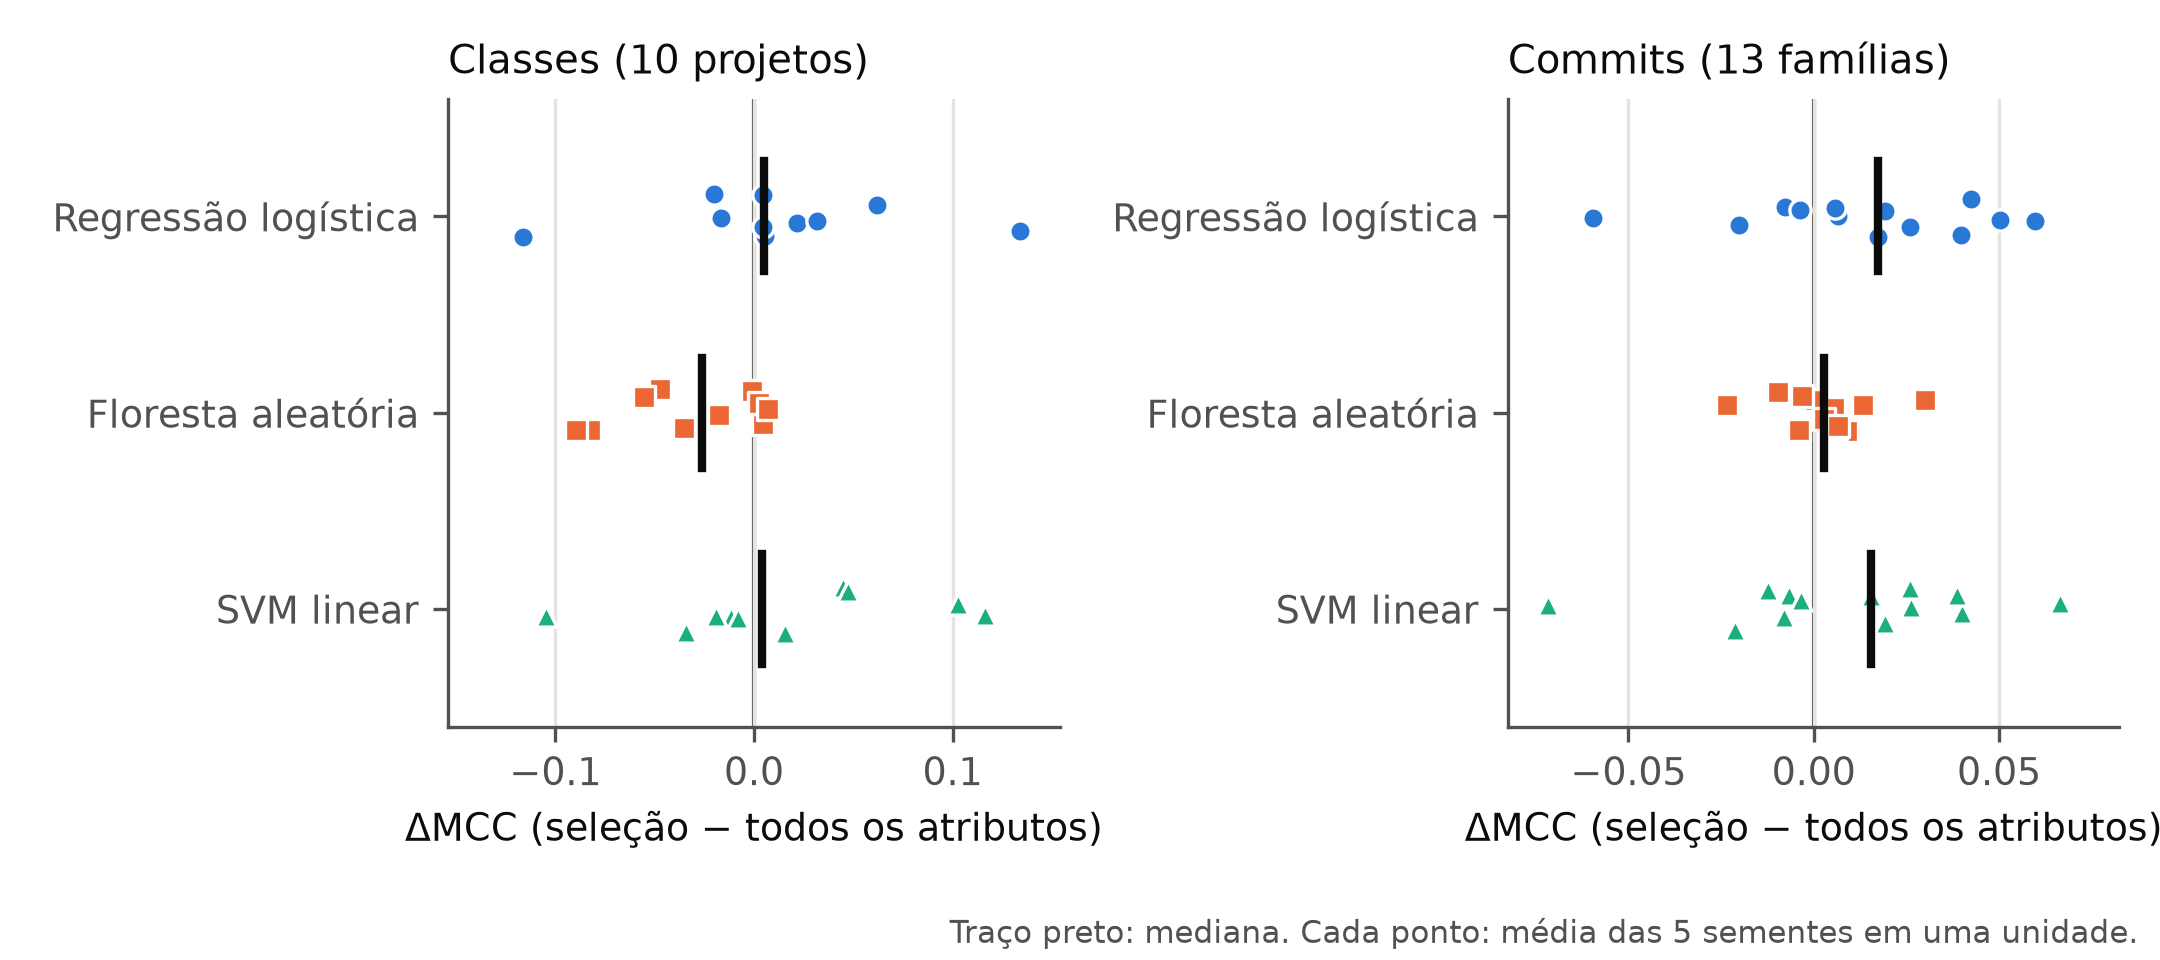
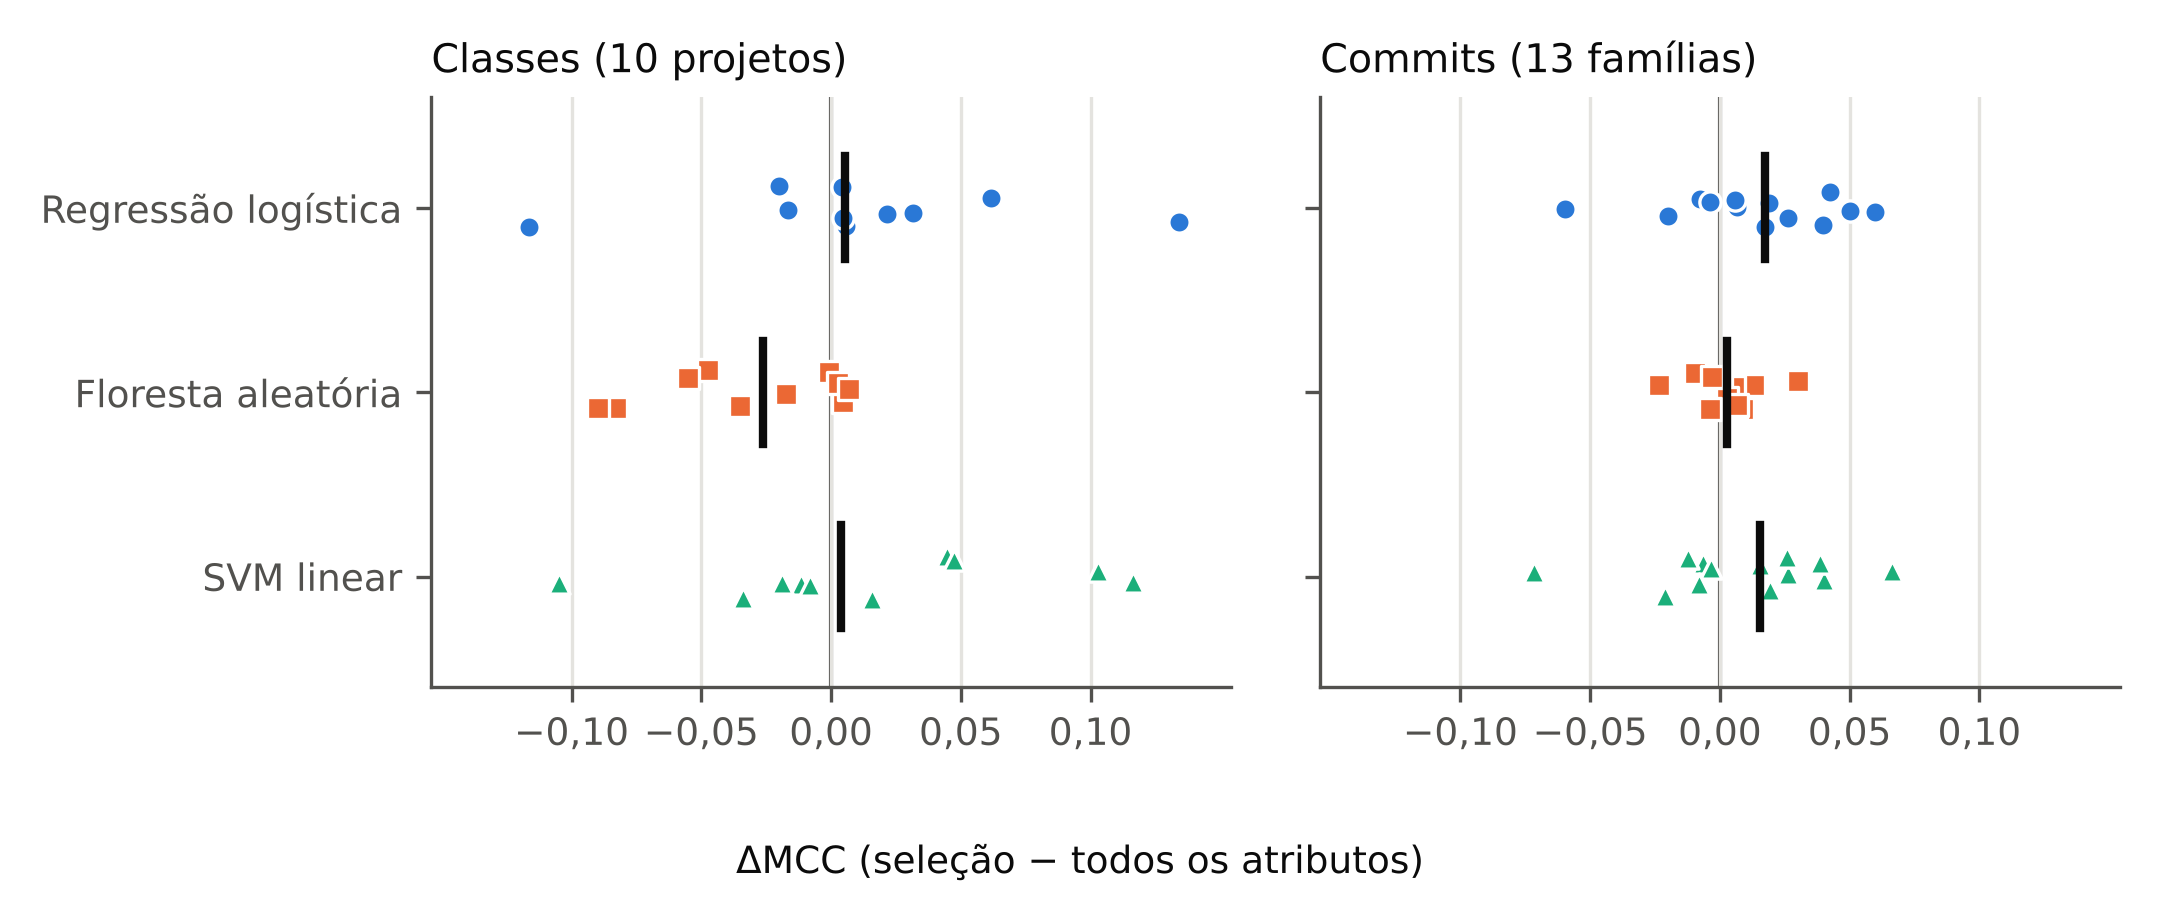
Adiciona análises a posteriori e Figura 2 com escala comum
- analyze_posthoc.py: trajetórias e paradas por orçamento, origem da máscara
  escolhida, ganho interno, Wilcoxon bilateral e commits sem apache/hadoop,
  calculados apenas dos registros gravados
- results/analysis/posthoc_*.csv: saídas dessas análises
- figures.py: Figura 2 com a mesma escala nos dois painéis
- README: documenta o novo script

diff --git a/analyze_posthoc.py b/analyze_posthoc.py
@@ -1,0 +1,120 @@
+"""Análises a posteriori (seção 3.8 do artigo).
+
+Não fazem parte do protocolo congelado antes da execução definitiva. Usam apenas os registros e as
+previsões já gravados em results/ (nenhum modelo é reajustado):
+
+1. Trajetórias: motivo de término, passos e tamanho final, por cenário, modelo e inicialização.
+2. Origem da máscara escolhida (inicialização completa ou aleatória) e distância ao ponto de partida.
+3. Ganho de MCC nas validações internas (máscara escolhida − conjunto completo): mínimo e média.
+4. Wilcoxon bilateral exploratório sobre as diferenças por unidade (complemento do teste unilateral da QP2).
+5. Teste de commits sem o identificador apache/hadoop (sem positivos na base): MCC, F1, precisão e
+   sensibilidade a partir das matrizes de confusão por identificador; AUC-ROC a partir das previsões,
+   se os dados estiverem em data/ (python download_data.py).
+
+Uso: python analyze_posthoc.py [results] [data]
+Saída: results/analysis/posthoc_*.csv
+"""
+import json, sys
+from pathlib import Path
+import numpy as np
+import pandas as pd
+from scipy.stats import wilcoxon
+
+ROOT = Path(__file__).resolve().parent
+RES = Path(sys.argv[1]) if len(sys.argv) > 1 else ROOT / 'results'
+DATA = Path(sys.argv[2]) if len(sys.argv) > 2 else ROOT / 'data'
+OUT = RES / 'analysis'; OUT.mkdir(parents=True, exist_ok=True)
+MODELS = ['LR', 'RF', 'SVM']; SCEN = ['classes', 'commits']
+INIT = {0: 'completa', 1: 'aleatoria_1', 2: 'aleatoria_2'}
+HADOOP = 'hadoop'   # identificador apache/hadoop, como gravado em by_group['project_id']
+
+
+def hamming(a, b):
+    return sum(x != y for x, y in zip(a, b))
+
+
+def mcc_from_counts(tp, fp, tn, fn):
+    den = np.sqrt(float(tp + fp) * (tp + fn) * (tn + fp) * (tn + fn))
+    return (tp * tn - fp * fn) / den if den > 0 else 0.0
+
+
+tasks = [json.loads(f.read_text()) for f in sorted((RES / 'tasks').glob('*.json'))]
+
+# 1. Trajetórias ---------------------------------------------------------------------------------
+traj = pd.DataFrame([dict(scenario=r['scenario'], model=r['model'], init=INIT[t['trajectory']],
+                          stop=t['stop'], steps=t['steps'], n_start=t['start'].count('1'),
+                          n_end=t['end'].count('1'))
+                     for r in tasks for t in r['trajectories']])
+t1 = traj.groupby(['scenario', 'model', 'init']).agg(
+    trajetorias=('stop', 'size'), encerradas_orcamento=('stop', lambda x: int((x == 'budget').sum())),
+    otimo_local=('stop', lambda x: int((x == 'local_optimum').sum())),
+    passos_media=('steps', 'mean'), passos_max=('steps', 'max'),
+    atributos_inicio=('n_start', 'mean'), atributos_fim=('n_end', 'mean'), atributos_fim_min=('n_end', 'min')
+).round(2).reset_index()
+t1.to_csv(OUT / 'posthoc_trajectories.csv', index=False)
+
+# 2. Origem da máscara escolhida -----------------------------------------------------------------
+rows = []
+for r in tasks:
+    best = r['selected_mask']
+    origin = next(t['trajectory'] for t in r['trace'] if t['mask'] == best)   # 1ª trajetória que a avaliou
+    start = r['trajectories'][origin]['start']
+    rows.append(dict(scenario=r['scenario'], fold=r['fold'], model=r['model'], seed=r['seed'],
+                     origin=INIT[origin], n_selected=best.count('1'), n_start=start.count('1'),
+                     hamming_start=hamming(best, start),
+                     start_1=r['trajectories'][1]['start'], start_2=r['trajectories'][2]['start'],
+                     gain_validation=r['validation_mcc_selected'] - r['validation_mcc_full']))
+sel = pd.DataFrame(rows)
+t2 = sel.assign(completa=sel.origin.eq('completa'), aleatoria=~sel.origin.eq('completa')).groupby(
+    ['scenario', 'model']).agg(buscas=('seed', 'size'), origem_completa=('completa', 'sum'),
+                               origem_aleatoria=('aleatoria', 'sum'), selecionados_media=('n_selected', 'mean'),
+                               inicio_media=('n_start', 'mean'), distancia_media=('hamming_start', 'mean'),
+                               distancia_max=('hamming_start', 'max')).round(2).reset_index()
+t2.to_csv(OUT / 'posthoc_mask_origin.csv', index=False)
+distinct = {s: len(set(sel[sel.scenario == s].start_1) | set(sel[sel.scenario == s].start_2)) for s in SCEN}
+
+# 3. Ganho interno -------------------------------------------------------------------------------
+t3 = sel.groupby(['scenario', 'model']).gain_validation.agg(['min', 'mean', 'max']).round(6).reset_index()
+t3.to_csv(OUT / 'posthoc_validation_gain.csv', index=False)
+
+# 4. Wilcoxon bilateral exploratório -------------------------------------------------------------
+d = pd.read_csv(OUT / 'qp2_differences_by_unit.csv')
+t4 = pd.DataFrame([dict(scenario=s, model=m, n=len(v),
+                        p_bilateral=wilcoxon(v, alternative='two-sided').pvalue,
+                        p_unilateral_piora=wilcoxon(v, alternative='less').pvalue)
+                   for s in SCEN for m in MODELS
+                   for v in [d[(d.scenario == s) & (d.model == m)].d_mcc.to_numpy()]]).round(6)
+t4.to_csv(OUT / 'posthoc_wilcoxon_two_sided.csv', index=False)
+
+# 5. Commits sem apache/hadoop -------------------------------------------------------------------
+keep = None
+csv = DATA / 'commits' / 'apachejit_total.csv'
+if csv.exists():
+    j = pd.read_csv(csv)
+    te = j[j.year >= 2017].reset_index(drop=True)
+    keep = (te.project != 'apache/hadoop').to_numpy(); y_ref = te.buggy.astype(int).to_numpy()
+rows = []
+for r in tasks:
+    if r['scenario'] != 'commits':
+        continue
+    z = np.load(RES / 'predictions' / f"commits__{r['fold']}__{r['model']}__{r['seed']}.npz") if keep is not None else None
+    for tr in ['full', 'hc']:
+        b = r[tr]; h = b['by_group']['project_id'][HADOOP]
+        tp, fp, tn, fn = (b[k] - h[k] for k in ['tp', 'fp', 'tn', 'fn'])
+        row = dict(model=r['model'], seed=r['seed'], treatment=tr, n=tp + fp + tn + fn, positives=tp + fn,
+                   mcc=mcc_from_counts(tp, fp, tn, fn), precision=tp / (tp + fp), recall=tp / (tp + fn),
+                   f1=2 * tp / (2 * tp + fp + fn), fp_hadoop=h['fp'], mcc_all=b['mcc'])
+        if z is not None:
+            from sklearn.metrics import roc_auc_score
+            assert (z['y'] == y_ref).all(), 'ordem do teste difere das previsões gravadas'
+            row['auc'] = roc_auc_score(z['y'][keep], z[tr + '_score'][keep])
+        rows.append(row)
+t5 = pd.DataFrame(rows).groupby(['model', 'treatment']).mean(numeric_only=True).drop(columns='seed').round(6).reset_index()
+t5.to_csv(OUT / 'posthoc_commits_without_hadoop.csv', index=False)
+
+pd.set_option('display.width', 200); pd.set_option('display.max_columns', 30)
+for name, t in [('Trajetórias', t1), ('Origem da máscara escolhida', t2), ('Ganho interno', t3),
+                ('Wilcoxon bilateral (exploratório)', t4), ('Commits sem apache/hadoop', t5)]:
+    print(f'\n== {name}\n{t.to_string(index=False)}')
+print('\nMáscaras aleatórias distintas por cenário:', distinct)
+print('Tabelas em', OUT)

diff --git a/figures.py b/figures.py
@@ -1,6 +1,7 @@
 """Figuras do artigo (PNG 300 dpi, fundo branco, legíveis em impressão em tons de cinza).
 
-Figura A: ΔMCC (seleção − todos os atributos) por unidade de análise, por modelo e cenário.
+Figura A: ΔMCC (seleção − todos os atributos) por unidade de análise, por modelo e cenário
+          (os dois painéis usam a mesma escala no eixo x).
 Figura B: frequência de seleção dos atributos por modelo e cenário.
 """
 import sys
@@ -10,6 +11,7 @@ import pandas as pd
 import matplotlib
 matplotlib.use('Agg')
 import matplotlib.pyplot as plt
+import matplotlib.ticker
 
 ROOT = Path(__file__).resolve().parent
 RES = Path(sys.argv[1]) if len(sys.argv) > 1 else ROOT / 'results'
@@ -30,8 +32,10 @@ plt.rcParams.update({'font.family': 'DejaVu Sans', 'font.size': 9, 'axes.edgecol
 
 def fig_delta():
     d = pd.read_csv(A / 'qp2_differences_by_unit.csv')
-    fig, axes = plt.subplots(1, 2, figsize=(7.2, 3.2), sharey=False)
+    # Mesma escala nos dois painéis (sharex): a dispersão das classes e a dos commits ficam comparáveis.
+    fig, axes = plt.subplots(1, 2, figsize=(7.2, 3.0), sharex=True, sharey=True)
     rng = np.random.default_rng(0)
+    lim = max(0.02, float(np.nanmax(np.abs(d.d_mcc))) * 1.15)
     for ax, s in zip(axes, ['classes', 'commits']):
         ax.axvline(0, color=INK2, lw=1, zorder=1)
         ax.grid(axis='x', color=GRID, lw=0.8, zorder=0)
@@ -43,16 +47,15 @@ def fig_delta():
             ax.scatter(v, y, s=26, marker=MARK[m], color=COLOR[m], edgecolor='white', linewidth=0.8, zorder=3)
             med = np.median(v)
             ax.plot([med, med], [i - 0.28, i + 0.28], color=INK, lw=2, zorder=4)
-        ax.set_yticks(range(3)); ax.set_yticklabels([LABEL[m] for m in MODELS])
-        ax.set_ylim(-0.6, 2.6); ax.invert_yaxis()
         ax.set_title(SCEN[s], fontsize=9.5, color=INK, loc='left')
-        ax.set_xlabel('ΔMCC (seleção − todos os atributos)')
-        lim = max(0.02, np.nanmax(np.abs(d[d.scenario == s].d_mcc)) * 1.15) if (d.scenario == s).any() else 0.05
         ax.set_xlim(-lim, lim)
-    axes[1].tick_params(labelleft=True)
-    fig.text(0.99, 0.01, 'Traço preto: mediana. Cada ponto: média das 5 sementes em uma unidade.',
-             ha='right', va='bottom', fontsize=7.5, color=INK2)
-    fig.tight_layout(rect=(0, 0.07, 1, 1))
+        ax.set_xticks([-0.10, -0.05, 0, 0.05, 0.10])
+        ax.xaxis.set_major_formatter(matplotlib.ticker.FuncFormatter(
+            lambda v, _: f'{v:.2f}'.replace('.', ',').replace('-', '−')))
+    axes[0].set_yticks(range(3)); axes[0].set_yticklabels([LABEL[m] for m in MODELS])
+    axes[0].set_ylim(-0.6, 2.6); axes[0].invert_yaxis()
+    fig.supxlabel('ΔMCC (seleção − todos os atributos)', fontsize=9, color=INK, y=0.02)
+    fig.tight_layout(rect=(0, 0.03, 1, 1), w_pad=2.0)
     fig.savefig(FIG / 'fig_delta_mcc.png', dpi=300, facecolor='white'); plt.close(fig)
 
 def fig_freq():

diff --git a/README.md b/README.md
@@ -29,6 +29,7 @@ univariado e uma seleção embutida L1, avaliados sob o mesmo protocolo, também
 | `figures.py` | Figuras do artigo. |
 | `run_alternatives.py` | Experimento complementar: filtro univariado (teste F) e seleção embutida (regressão logística L1), sob o mesmo protocolo. |
 | `analyze_alternatives.py` | Comparação entre Hill Climbing, filtro e L1. |
+| `analyze_posthoc.py` | Análises a posteriori feitas só com os registros gravados: trajetórias e paradas por orçamento, origem da máscara escolhida, ganho interno, Wilcoxon bilateral e desempenho dos commits sem `apache/hadoop` (saídas em `results/analysis/posthoc_*.csv`). |
 | `download_data.py`, `data_manifest.json` | Obtenção dos dados nas fontes originais, com conferência de SHA-256. |
 | `results/tasks/` | Um JSON por (cenário, rodada, modelo, semente): subconjunto escolhido, trajetórias, rastro da busca e métricas externas. |
 | `results/eval_cache/` | Cada avaliação de candidato: MCC em cada divisão interna e tempo. |
@@ -51,6 +52,7 @@ python analyze.py
 python figures.py
 python run_alternatives.py --workers 2   # experimento complementar (cerca de 1 hora)
 python analyze_alternatives.py
+python analyze_posthoc.py
 ```
 
 Os resultados da execução original já estão em `results/`. Para recalcular tudo do zero, apague `results/tasks/` e
